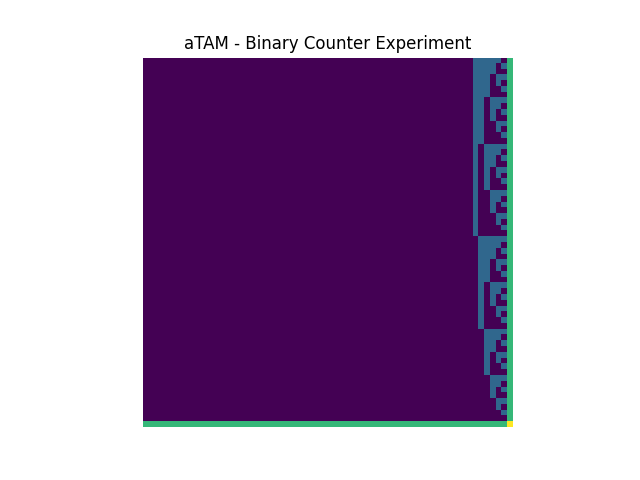
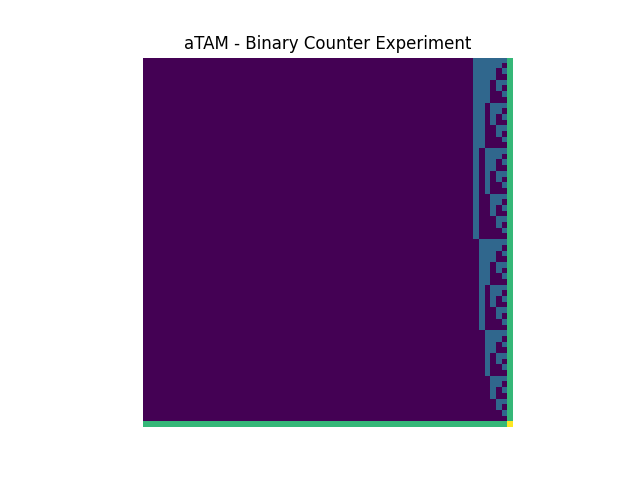
some slight refactoring

Changed region(s): [[0.75, 0.125, 0.8125, 0.7188]]

diff --git a/src/atam/experiment_counter.py b/src/atam/experiment_counter.py
@@ -1,12 +1,10 @@
 
-from atam import north, seed, west, Tile
+from atam import Tile, create_tile_grid
 
-import numpy as np
 import matplotlib.pyplot as plt
 
 
-
-def counter_tile(up, right) -> Tile:
+def counter_tile(up: int, right: int) -> Tile:
     if up + right == 1:
         return Tile(1, up, 0, right, "1")
     elif up + right == 2:
@@ -16,21 +14,9 @@ def counter_tile(up, right) -> Tile:
 
 
 def main() -> None:
-    dim = 64
+    dim = 65
 
-    tiles = np.empty((64, 64), dtype=object)
-    for row in range(dim):
-        for col in range(dim):
-            if (row + col) == 0:
-                tiles[0, 0] = seed()
-            elif row == 0:
-                tiles[0, col] = west()
-            elif col == 0:
-                tiles[row, 0] = north()
-            elif row > 0 and col > 0:
-                tiles[row, col] = counter_tile(tiles[row - 1][col].up, tiles[row][col - 1].left)
-
-    values = [[int(tile.colour) for tile in row[::-1]] for row in tiles[::-1]]
+    values = [[int(tile.colour) for tile in row[::-1]] for row in create_tile_grid(dim, counter_tile)[::-1]]
 
     plt.title("aTAM - Binary Counter Experiment")
     plt.imshow(values, interpolation="none")

diff --git a/src/atam/experiment_xor.py b/src/atam/experiment_xor.py
@@ -1,12 +1,10 @@
 
-from atam import north, seed, west, Tile
+from atam import Tile, create_tile_grid
 
-import numpy as np
 import matplotlib.pyplot as plt
 
 
-
-def xor_tile(up, right) -> Tile:
+def xor_tile(up: int, right: int) -> Tile:
     if up + right == 1:
         return Tile(1, up, 1, right, "1")
     else:
@@ -16,19 +14,7 @@ def xor_tile(up, right) -> Tile:
 def main() -> None:
     dim = 64
 
-    tiles = np.empty((64, 64), dtype=object)
-    for row in range(dim):
-        for col in range(dim):
-            if (row + col) == 0:
-                tiles[0, 0] = seed()
-            elif row == 0:
-                tiles[0, col] = west()
-            elif col == 0:
-                tiles[row, 0] = north()
-            elif row > 0 and col > 0:
-                tiles[row, col] = xor_tile(tiles[row - 1][col].up, tiles[row][col - 1].left)
-
-    values = [[int(tile.colour) for tile in row[::-1]] for row in tiles[::-1]]
+    values = [[int(tile.colour) for tile in row[::-1]] for row in create_tile_grid(dim, xor_tile)[::-1]]
 
     plt.title("aTAM - XOR Experiment")
     plt.imshow(values, interpolation="none")

diff --git a/src/atam/__init__.py b/src/atam/__init__.py
@@ -1,5 +1,8 @@
 
+from typing import Callable
 from dataclasses import dataclass
+
+import numpy as np
 
 
 @dataclass
@@ -11,15 +14,28 @@ class Tile:
     colour: str
 
 
-
 def seed() -> Tile:
     return Tile(2, -1, 2, -1, "3")
-
 
 def north() -> Tile:
     return Tile(2, 2, 1, -1, "2")
 
-
 def west() -> Tile:
     return Tile(1, -1, 2, 2, "2")
 
+
+def create_tile_grid(dim: int, func: Callable[[int, int], Tile]) -> np.ndarray:
+    tiles = np.empty((dim, dim), dtype=object)
+
+    for row in range(dim):
+        for col in range(dim):
+            if (row + col) == 0:
+                tiles[0, 0] = seed()
+            elif row == 0:
+                tiles[0, col] = west()
+            elif col == 0:
+                tiles[row, 0] = north()
+            elif row > 0 and col > 0:
+                tiles[row, col] = func(tiles[row - 1][col].up, tiles[row][col - 1].left)
+
+    return tiles
